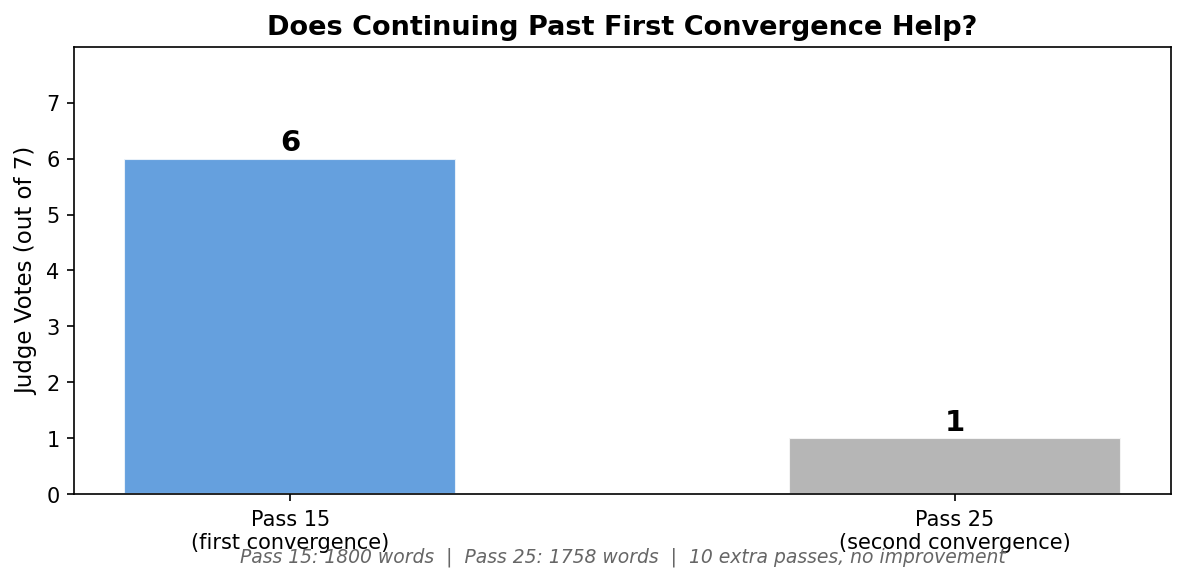
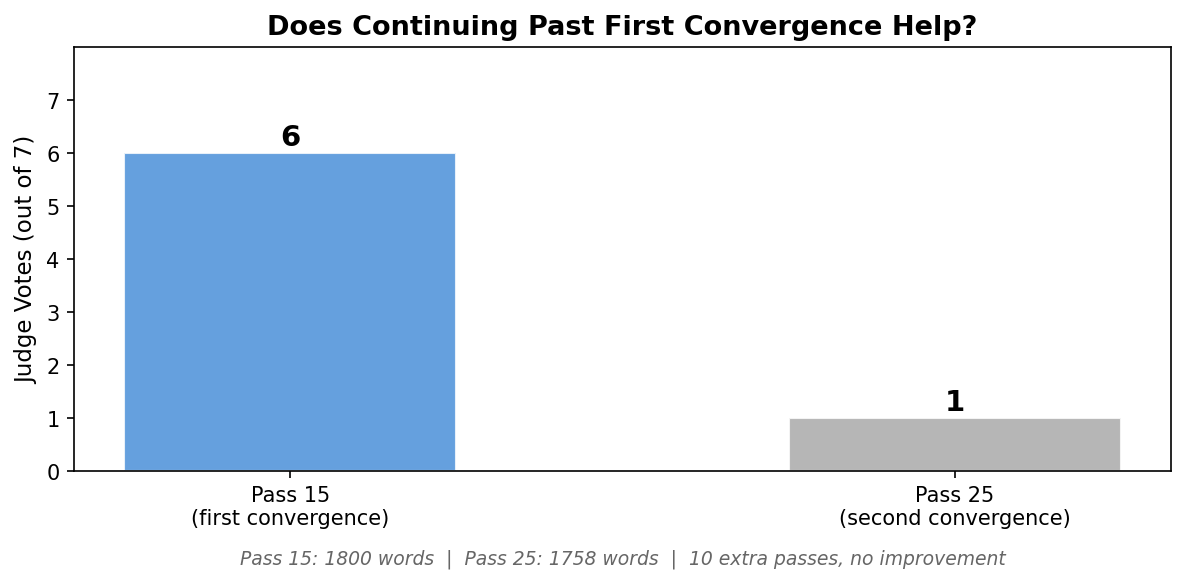
Fix spacing on pass15 vs pass25 chart

diff --git a/experiments/v2/make_comparison_charts.py b/experiments/v2/make_comparison_charts.py
@@ -110,9 +110,10 @@ for bar, w in zip(bars, wins):
     ax.text(bar.get_x() + bar.get_width()/2, w + 0.15, str(w),
             ha='center', fontsize=14, fontweight='bold')
 
-ax.text(0.5, -0.15, 'Pass 15: 1800 words  |  Pass 25: 1758 words  |  10 extra passes, no improvement',
+ax.text(0.5, -0.22, 'Pass 15: 1800 words  |  Pass 25: 1758 words  |  10 extra passes, no improvement',
         transform=ax.transAxes, ha='center', fontsize=9, color='#666666', style='italic')
 
 plt.tight_layout()
+plt.subplots_adjust(bottom=0.2)
 plt.savefig('/root/autoreason-experiment/experiments/v2/pass15_vs_pass25.png', dpi=150, bbox_inches='tight', facecolor='white')
 print("Saved pass15_vs_pass25.png")
